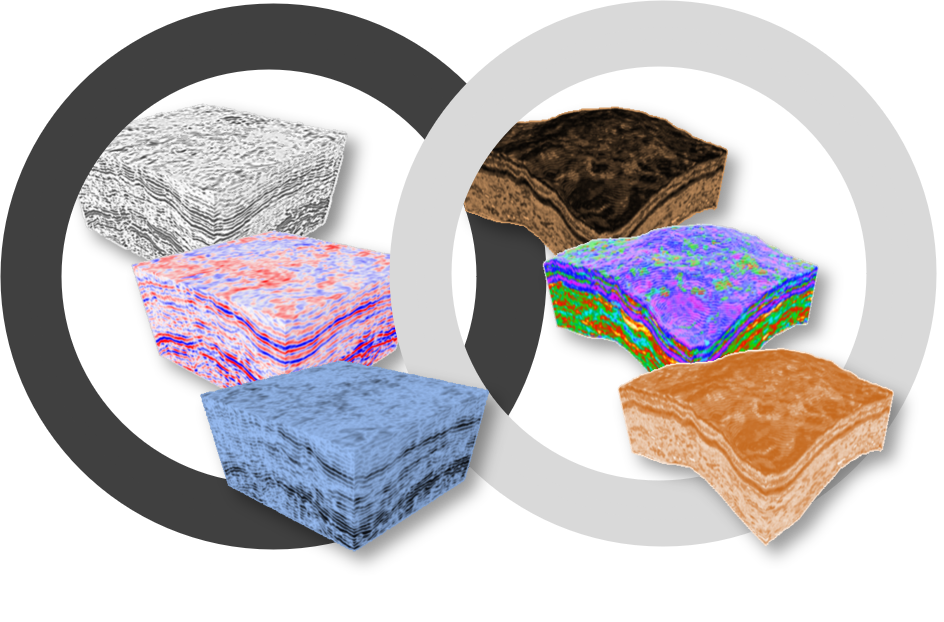
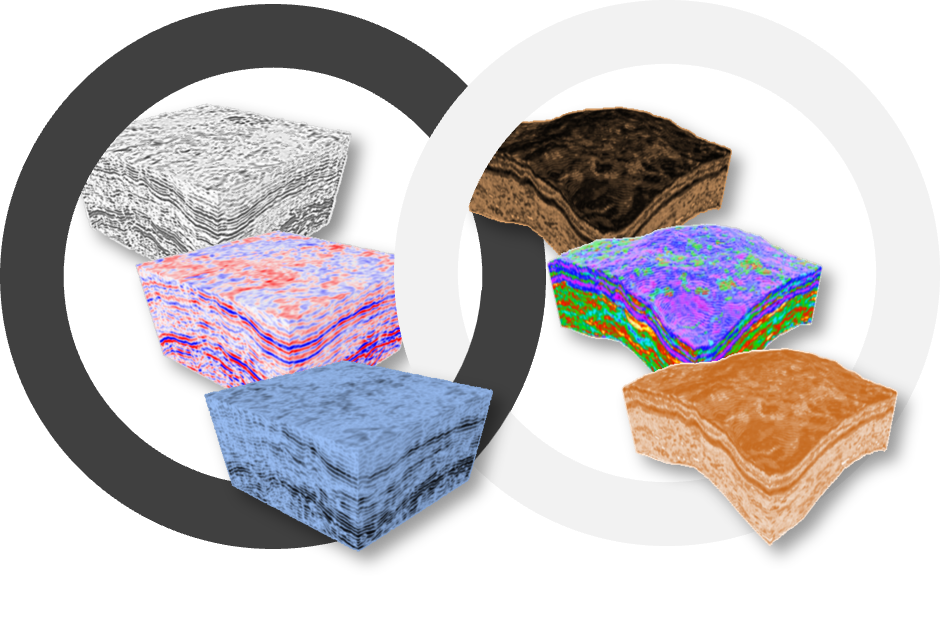
contacts page

diff --git a/styles.css b/styles.css
@@ -298,30 +298,83 @@ img.logo {
   background: #040c13;
 }
 
-.contact-grid {
+.contact-layout {
   display: grid;
-  grid-template-columns: 1.4fr 1fr;
-  gap: 32px;
-  align-items: start;
+  grid-template-columns: minmax(0, 0.9fr) minmax(0, 1.1fr);
+  gap: clamp(40px, 7vw, 88px);
+  align-items: center;
   max-width: 1100px;
   margin: 0 auto;
 }
 
-.contact-details p {
-  margin: 14px 0;
+.contact-intro h2 {
+  margin: 0 0 24px;
+  font-size: clamp(2.4rem, 4vw, 4rem);
+  line-height: 1.08;
+}
+
+.contact-intro p {
+  margin: 0;
   color: var(--muted);
+  font-size: 1.05rem;
 }
 
-.contact-details a {
-  color: var(--text);
-  overflow-wrap: anywhere;
-}
-
-.contact-map-card {
-  padding: 32px;
+.contact-form {
+  display: grid;
+  gap: 20px;
+  padding: clamp(24px, 4vw, 40px);
+  border: 1px solid rgba(255, 255, 255, 0.1);
   border-radius: 24px;
-  background: rgba(255, 255, 255, 0.04);
-  border: 1px solid rgba(255, 255, 255, 0.08);
+  background: linear-gradient(145deg, rgba(255, 255, 255, 0.07), rgba(255, 255, 255, 0.025));
+  box-shadow: 0 24px 70px rgba(0, 0, 0, 0.28);
+}
+
+.form-field {
+  display: grid;
+  gap: 8px;
+}
+
+.form-field label {
+  color: var(--text);
+  font-size: 0.9rem;
+  font-weight: 600;
+}
+
+.form-field label span {
+  color: var(--muted);
+  font-size: 0.8rem;
+  font-weight: 400;
+}
+
+.form-field input,
+.form-field textarea {
+  width: 100%;
+  border: 1px solid rgba(255, 255, 255, 0.14);
+  border-radius: 12px;
+  outline: none;
+  padding: 13px 15px;
+  color: var(--text);
+  background: rgba(2, 6, 12, 0.72);
+  font: inherit;
+  transition: border-color 0.2s ease, box-shadow 0.2s ease;
+}
+
+.form-field textarea {
+  min-height: 160px;
+  resize: vertical;
+}
+
+.form-field input:focus,
+.form-field textarea:focus {
+  border-color: var(--accent);
+  box-shadow: 0 0 0 3px rgba(246, 178, 68, 0.14);
+}
+
+.form-submit {
+  width: 100%;
+  border: 0;
+  cursor: pointer;
+  font: inherit;
 }
 
 .site-footer {
@@ -357,7 +410,7 @@ img.logo {
     justify-self: center;
   }
   .services-section .cards-grid,
-  .contact-grid {
+  .contact-layout {
     grid-template-columns: 1fr;
   }
   .hero-section {
@@ -442,8 +495,14 @@ img.logo {
   .card-content {
     padding: 22px;
   }
-  .contact-map-card,
   .expertise-card {
+    padding: 22px;
+    border-radius: 18px;
+  }
+  .contact-layout {
+    gap: 32px;
+  }
+  .contact-form {
     padding: 22px;
     border-radius: 18px;
   }

diff --git a/contact.html b/contact.html
@@ -13,7 +13,7 @@
       <div class="brand">
         <img src="logo.png" alt="SynAtar logo" class="logo" />
       </div>
-      <p class="header-tagline">Integrated Geoscience,<br />Smarter Subsurface Decisions.</p>
+      <p class="header-tagline">Your Project,<br />Our Expertise</p>
       <nav class="nav-links">
         <a href="index.html">Home</a>
         <a href="about.html">About</a>
@@ -24,27 +24,32 @@
   </header>
   <main>
     <section class="section contact-section">
-      <div class="section-inner contact-grid">
-        <div>
-          <span class="section-label">Contact</span>
-          <h2>Get in touch</h2>
-          <p>For enquiries and project discussions, contact SynAtar using the details below.</p>
-          <div class="contact-details">
-            <p><strong>Email:</strong> <a href="mailto:[email redacted]">[email redacted]</a></p>
-            <p><strong>Phone:</strong> <a href="tel:[phone redacted]">[phone redacted]</a></p>
-            <p><strong>Address:</strong> London, UK</p>
-            <p><strong>Company Registration:</strong> 17200144</p>
+      <div class="section-inner contact-layout">
+        <div class="contact-intro">
+          <h2>Let's Start the Conversation.</h2>
+          <p>Whether you're evaluating exploration opportunities, optimising field development and infill drilling programmes, advancing geothermal projects, assessing carbon storage potential, or seeking technical assurance and independent peer review, SynAtar is ready to support your next decision with independent geoscience expertise.</p>
+        </div>
+        <form class="contact-form" action="mailto:[email redacted]" method="post" enctype="text/plain">
+          <div class="form-field">
+            <label for="name">Name</label>
+            <input id="name" name="Name" type="text" autocomplete="name" required />
           </div>
-        </div>
-        <div class="contact-map-card">
-          <h3>Head Office</h3>
-          <p>Synatar is a UK-based consultancy serving clients across global energy markets.</p>
-        </div>
+          <div class="form-field">
+            <label for="email">Email</label>
+            <input id="email" name="Email" type="email" autocomplete="email" required />
+          </div>
+          <div class="form-field">
+            <label for="company">Company <span>(optional)</span></label>
+            <input id="company" name="Company" type="text" autocomplete="organization" />
+          </div>
+          <div class="form-field">
+            <label for="message">How can we help?</label>
+            <textarea id="message" name="How can we help?" rows="7" required></textarea>
+          </div>
+          <button class="btn btn-primary form-submit" type="submit">Send Message</button>
+        </form>
       </div>
     </section>
   </main>
-  <footer class="site-footer">
-    <p>SynAtar © 2026 | Company Registration No. 17200144</p>
-  </footer>
 </body>
 </html>

diff --git a/about.html b/about.html
@@ -33,8 +33,5 @@
       </div>
     </section>
   </main>
-  <footer class="site-footer">
-    <p>SynAtar © 2026 | Company Registration No. 17200144</p>
-  </footer>
 </body>
 </html>

diff --git a/services.html b/services.html
@@ -62,8 +62,5 @@
       </div>
     </section>
   </main>
-  <footer class="site-footer">
-    <p>SynAtar © 2026 | Company Registration No. 17200144</p>
-  </footer>
 </body>
 </html>